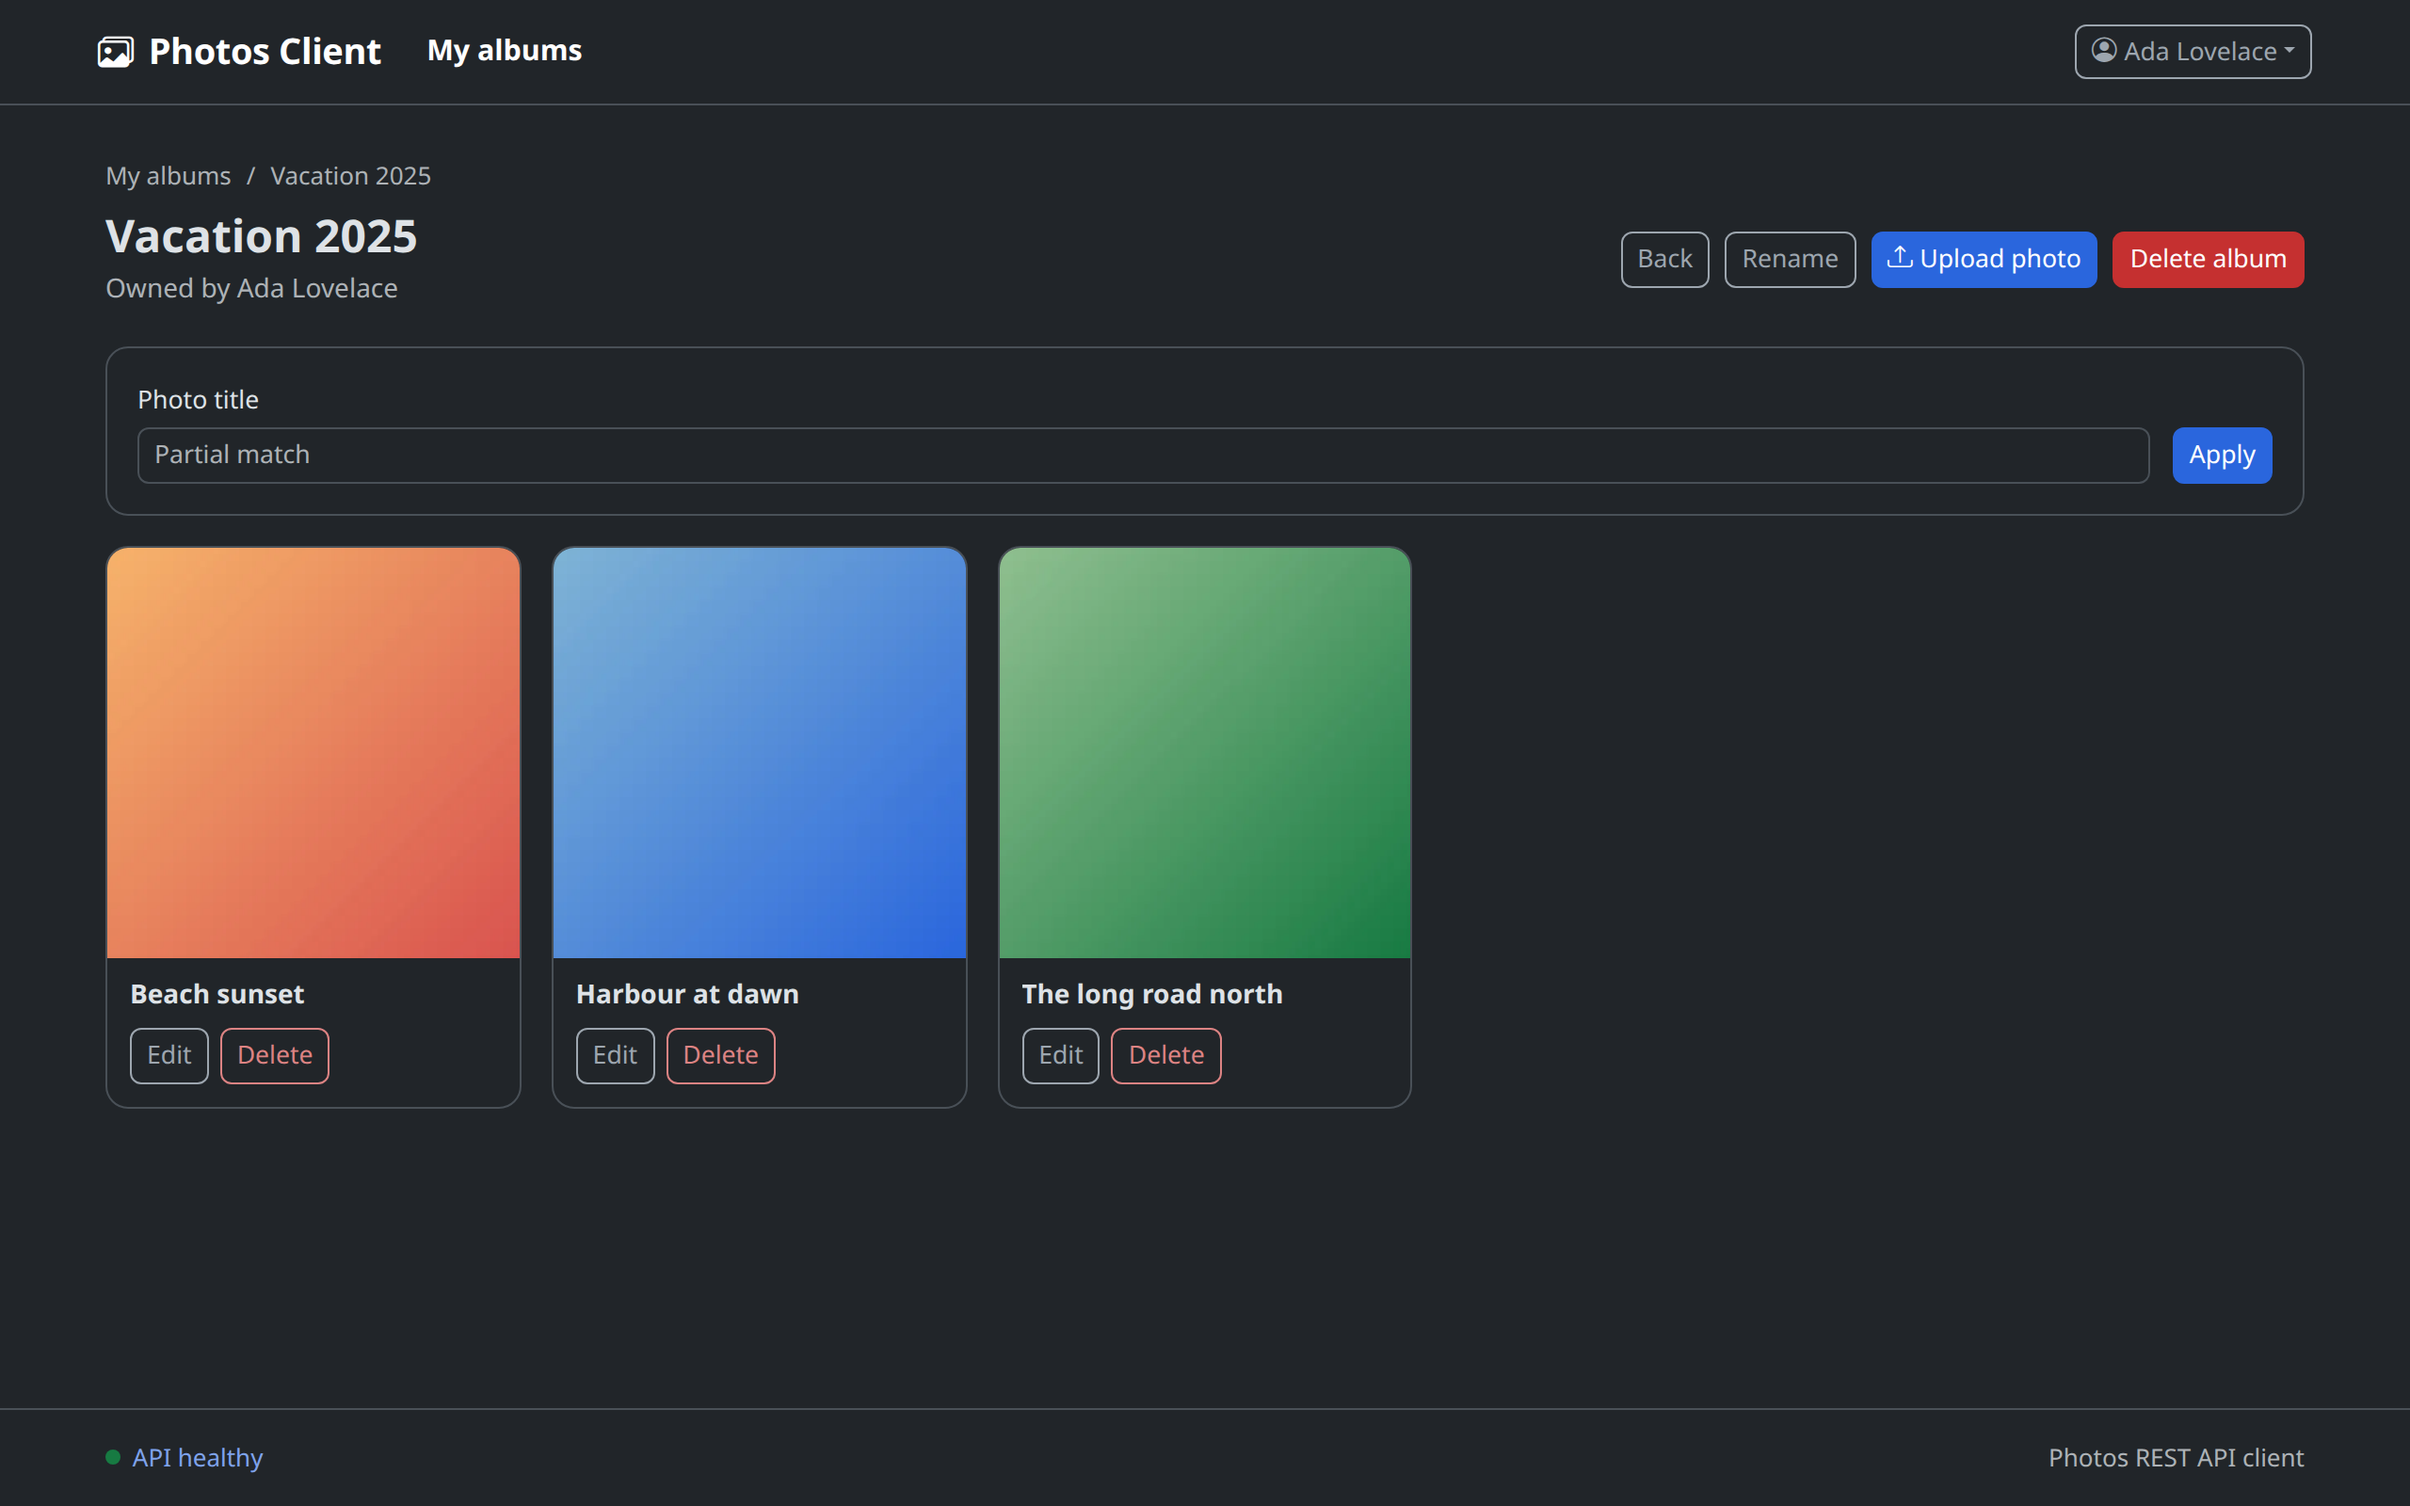
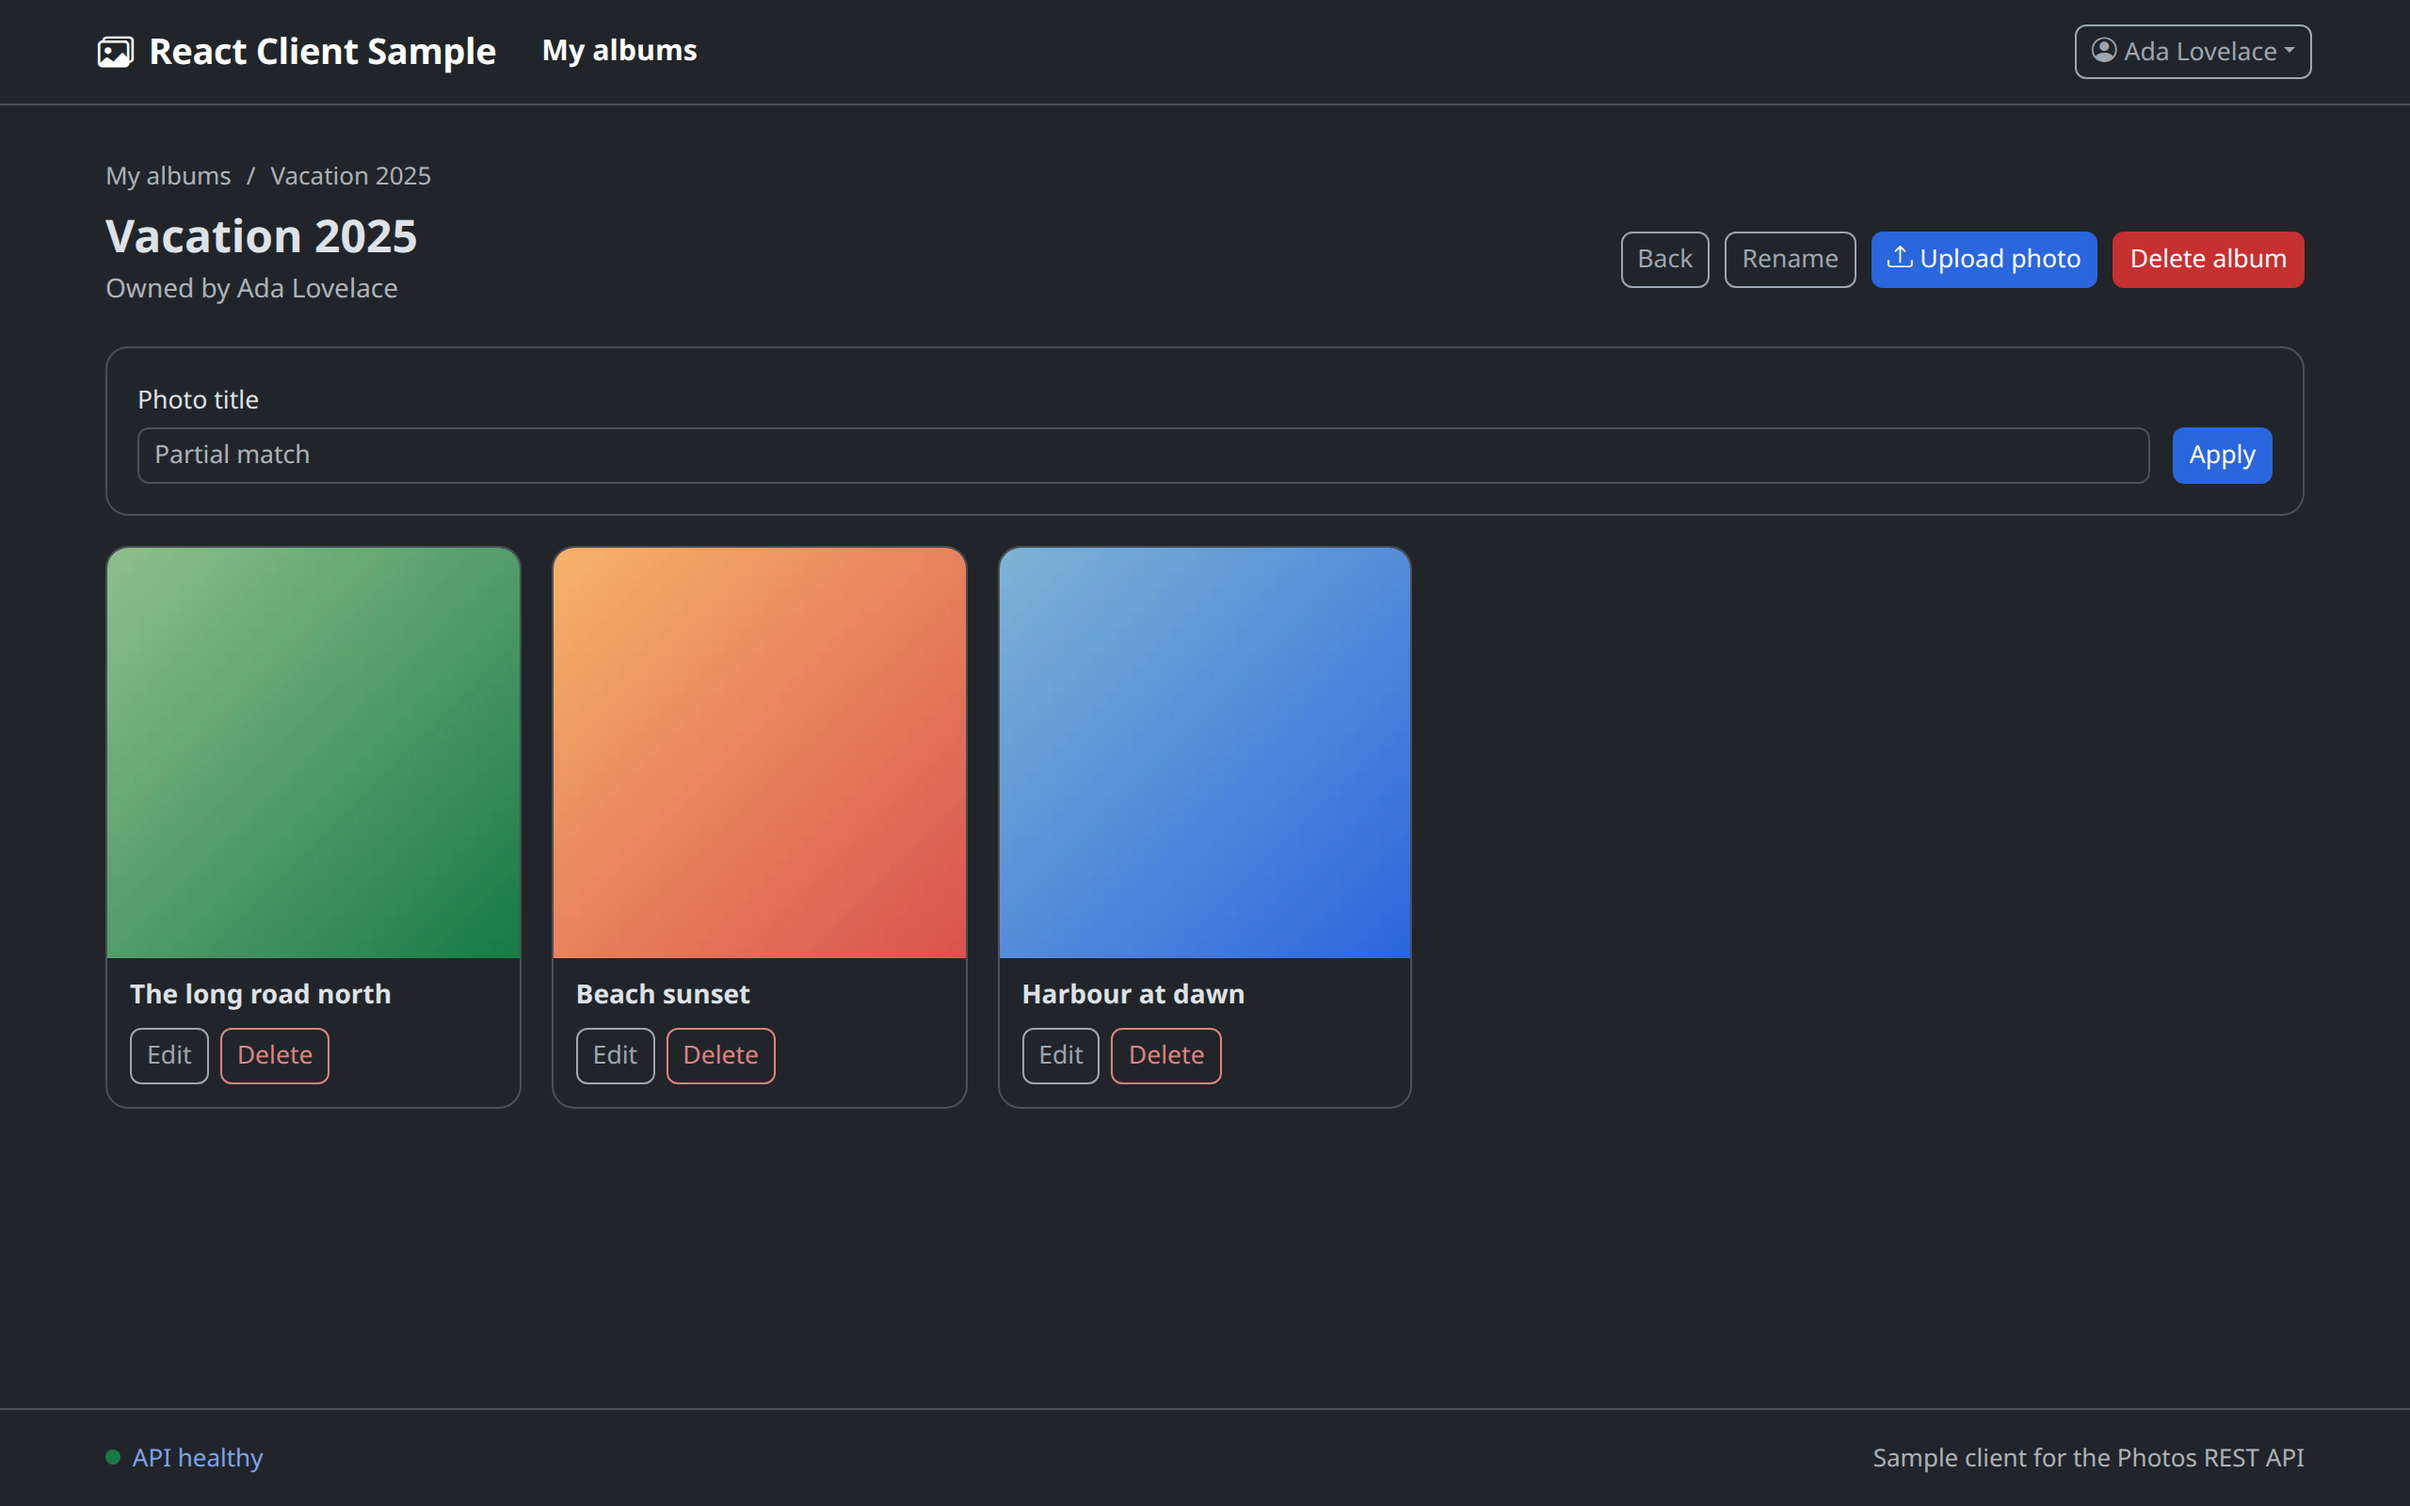
docs: title the README and footer after the real name
README's H1 and package.json's description still described the project
as "Photos REST API — React client" instead of naming it. The footer
became "Sample client for the Photos REST API" rather than repeating the
navbar's brand text verbatim, so the two aren't identical strings on the
same screen. Screenshots regenerated to show the new brand.

Changed region(s): [[0.0312, 0.3438, 0.5938, 0.6875], [0.0625, 0.0312, 0.2812, 0.0625], [0.8438, 0.9375, 0.9375, 1.0]]

diff --git a/tests/functional/routing.test.tsx b/tests/functional/routing.test.tsx
@@ -32,7 +32,7 @@ describe('The route table', () => {
     expect(await screen.findByRole('heading', { name: 'My albums' })).toBeInTheDocument()
     // The shell: navigation above, the API's liveness in the footer below.
     expect(screen.getByRole('link', { name: 'React Client Sample' })).toBeInTheDocument()
-    expect(screen.getByText('Photos REST API client')).toBeInTheDocument()
+    expect(screen.getByText('Sample client for the Photos REST API')).toBeInTheDocument()
     // The badge starts as "Checking API…" and settles once the probe answers.
     expect(await screen.findByRole('link', { name: 'API healthy' })).toBeInTheDocument()
   })

diff --git a/src/components/layout/AppLayout.tsx b/src/components/layout/AppLayout.tsx
@@ -59,7 +59,7 @@ export function AppLayout() {
       <footer className="appFooter">
         <div className="appMain py-0 d-flex justify-content-between align-items-center">
           <HealthBadge />
-          <span>Photos REST API client</span>
+          <span>Sample client for the Photos REST API</span>
         </div>
       </footer>
     </div>

diff --git a/README.md b/README.md
@@ -1,4 +1,4 @@
-# Photos REST API — React client
+# React Client Sample
 
 [![CI](https://github.com/fuegoalma/react-client-sample/actions/workflows/ci.yml/badge.svg)](https://github.com/fuegoalma/react-client-sample/actions/workflows/ci.yml)
 [![CD](https://github.com/fuegoalma/react-client-sample/actions/workflows/cd.yml/badge.svg)](https://github.com/fuegoalma/react-client-sample/actions/workflows/cd.yml)
